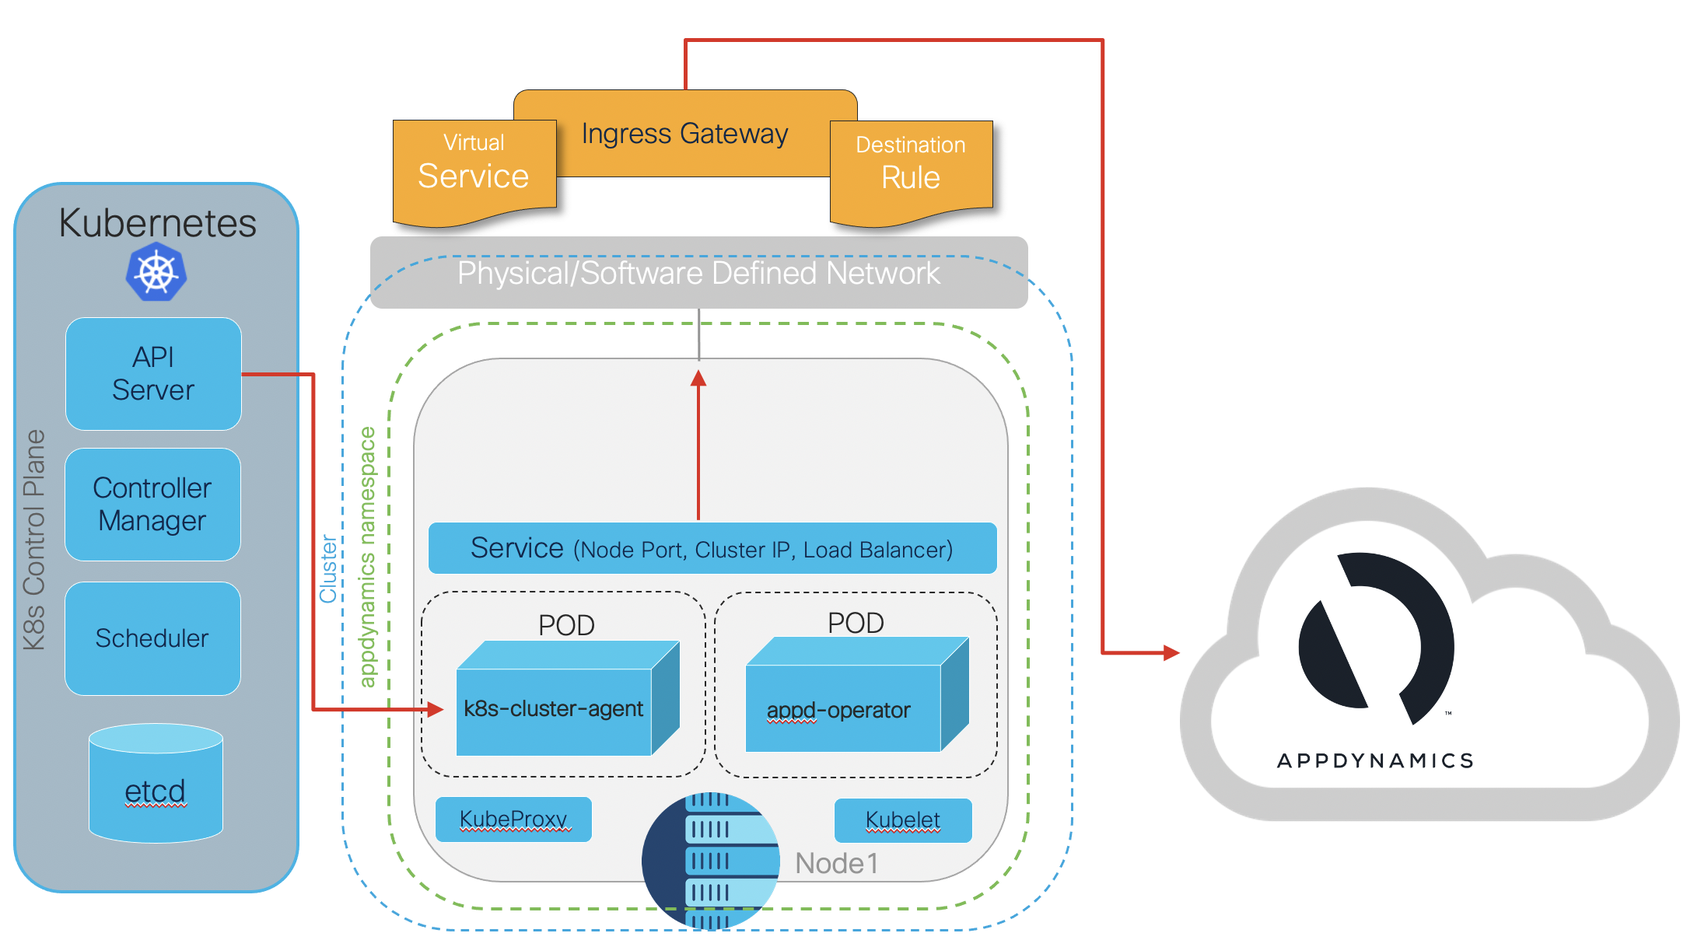
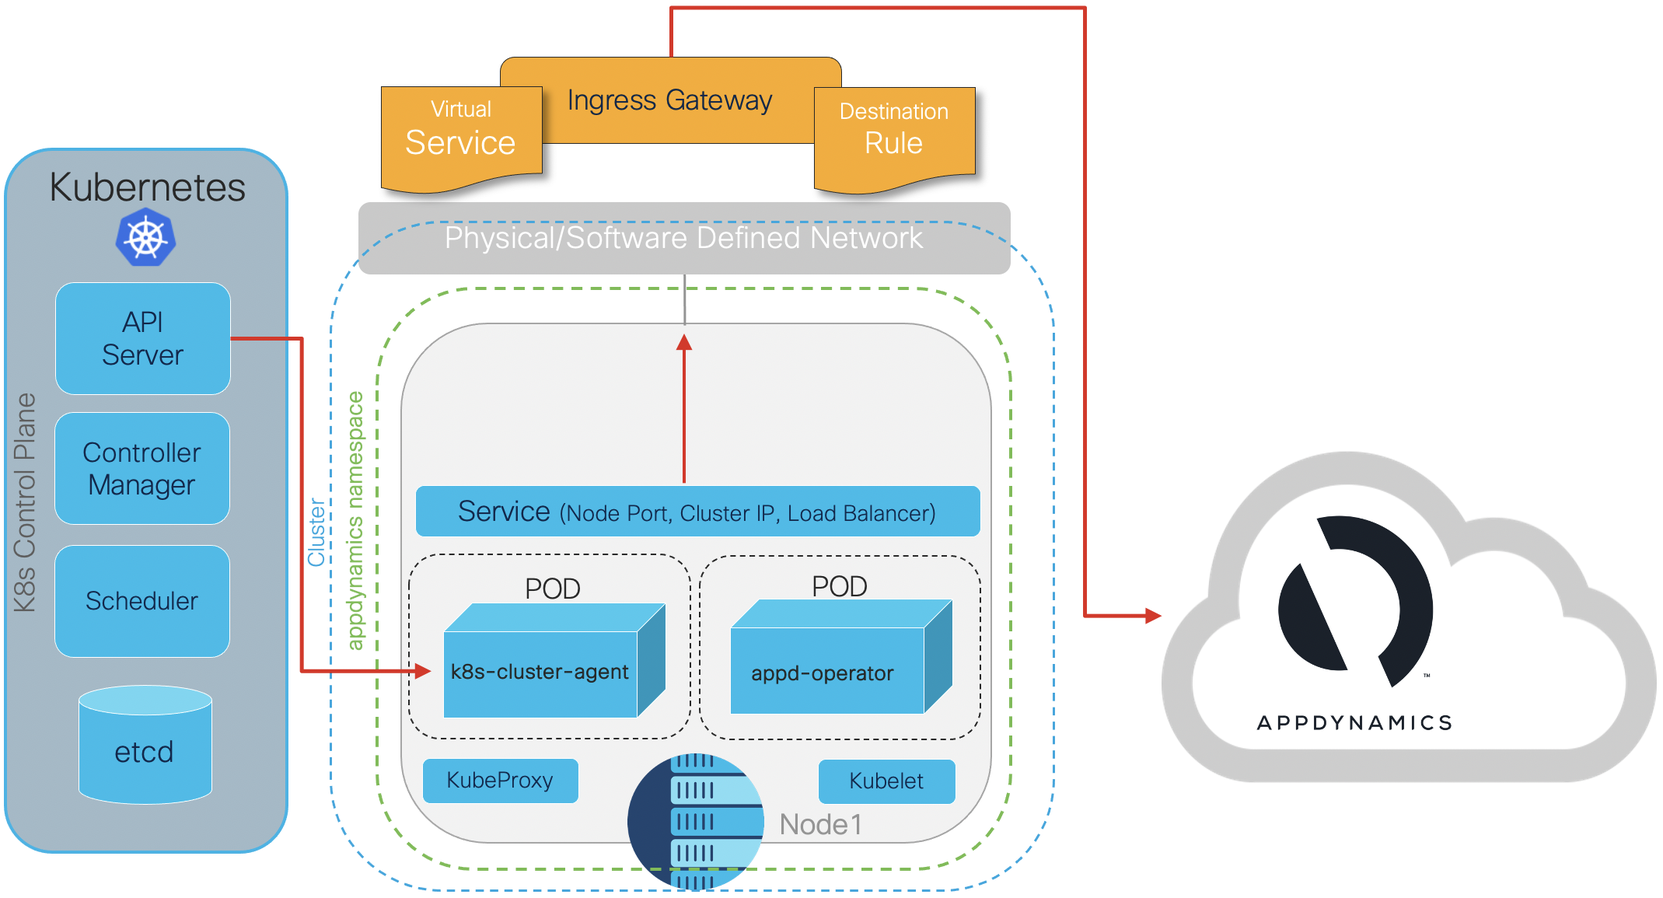
Updating diagrams and correcting minor typos

Changed region(s): [[0.0, 0.0, 0.7097, 0.9974], [0.7405, 0.4987, 1.0, 0.8727]]

diff --git a/README.md b/README.md
@@ -6,7 +6,7 @@
 
 **We use this application to demonstrate the use of Cloud Native technologies like Kubernetes/GKE, Istio, AppDynamics and ThousandEyes**. This application works on any Kubernetes (k8s) cluster, as well as Google Kubernetes Engine (GKE).
 
-This project has is based on the [original open-source microservices-demo from Google](https://github.com/GoogleCloudPlatform/microservices-demo).
+This project is based on the [original open-source microservices-demo from Google](https://github.com/GoogleCloudPlatform/microservices-demo).
 
 # Features
 
@@ -19,7 +19,7 @@ This project has is based on the [original open-source microservices-demo from G
 - **[AppDynamics](https://www.appdynamics.com/) for _App_ and _Cluster_ visibility:** The _FrontEnd_ service is versioned and
   instrumented with AppDynamics for [application performance monitoring](https://www.appdynamics.com/product/application-performance-monitoring). The k8s cluster is instrumented with AppDynamics [Cluster Agent](https://www.appdynamics.com/solutions/kubernetes-monitoring) to monitor the health of of the entire cluster, including every node and namespace down to the container level. [**GET YOUR APPDYNAMICS FREE TRIAL HERE**](https://www.appdynamics.com/free-trial/).
 - **[ThousandEyes](https://www.thousandeyes.com/) for external Network visibility and end-user experience:** _ThousandEyes_
-  [Browser Synthetics](https://www.thousandeyes.com/product/browser-synthetics) simulate users interacting with the application. ThousandEyes Cloud Agents were deployed, across the globe, to simulate these interactions and provide metrics, such as _availability_, _response time_, _latency_, _transaction times_, _errors_. [**GET YOUR THOUSANDEYES FREE TRIAL HERE**](https://www.thousandeyes.com/signup/).
+  [Browser Synthetics](https://www.thousandeyes.com/product/browser-synthetics) simulates users interacting with the application. ThousandEyes Cloud Agents were deployed, across the globe, to simulate these interactions and provide metrics, such as _availability_, _response time_, _latency_, _transaction times_, _errors_. [**GET YOUR THOUSANDEYES FREE TRIAL HERE**](https://www.thousandeyes.com/signup/).
 - **[ThousandEyes & AppDynamics Integration](https://www.appdynamics.com/product/network-monitoring) for complete application service visibility:**
   ThousandEyes alerts are natively configured to trigger alerts in AppDynamics to correlate external network and user experience problems with internal application metrics. 
 - **[Cloud Operations (Stackdriver)](https://cloud.google.com/products/operations):** Many services
@@ -56,7 +56,7 @@ microservices](./docs/img/architecture-diagram.png)](./docs/img/architecture-dia
 
 ## Kubernetes and Istio
 
-The _Online Boutique_ is initially deployed in GKE with _Istio_, which defines the _Service Mesh_ and handles service-to-service communication. _Istio_  allows to decouple traffic management from application code by attaching a sidecar proxy (called envoy) next to each container that intercepts all incoming and outgoing communications. The interaction between all these proxies in the data plane, together with a common control plane then creates the service mesh. This fundamentally helps you understand traffic flows among services and how to manage them with policies, protection and authentication. 
+The _Online Boutique_ is initially deployed in GKE with _Istio_, which defines the _Service Mesh_ and handles service-to-service communication. _Istio_  allows to decouple traffic management from application code by attaching a sidecar proxy (called envoy) next to each container that intercepts all incoming and outgoing communications. The interaction between all these proxies in the data plane, together with a common control plane, then creates the service mesh. This fundamentally helps you understand traffic flows among services and how to manage them with policies, protection and authentication. 
 
 In this project, ingress resources like an _Istio_ `Gateway` and `VirtualService` are deployed to expose the _Online Boutique_ frontend running inside a Kubernetes cluster.
 
@@ -68,21 +68,21 @@ In this project, ingress resources like an _Istio_ `Gateway` and `VirtualService
 With _Istio_ at full steam we then focus on getting visibility into how the cluster and the application are performing. We start by using _Kiali_ which comes natively integrated with _Istio_ and provides visibility at the network service layer. We then implement _AppDynamics Agents_, at the infrastructure (i.e. cluster) and application layer.
 
 ### Cluster-Agent
-This agent is deployed in its own _namespace_ and collects metrics and metadata for the entire cluster, including every node and namespace down to the container level, via the Kubernetes API. It then sends this information to the AppDynamics Controller.
+This agent is deployed in its own _namespace_ and collects metrics and metadata for the entire cluster, including every node and namespace down to the container level, via the Kubernetes API. It then sends this information to the _AppDynamics_ controller.
 
 [![Cluster Agent Diagram](./docs/img/cluster-agent-arch.png)](./docs/img/cluster-agent-arch.png)
 
-The _AppDynamics cluster-agent_ also comes with an _auto-instrument_ feature, only available for _.NET_, _JAVA_ and _Node.js_. This dynamically and automatically adds the required application agents to the targeted applications. In essence, the _cluster agent_ modifies the application deployment by adding an _init_ container that installs the required AppDynamics application agent on the application container when it automatically restarts. Both the _paymentservice_ & _currencyservice_ are _Node.js_ applications so the _AppDynamics cluster-agent_ automatically instruments them, as covered in the _Deployment_ section. However, due to some AppDynamics gRPC limitations the information of these are microservices is not being correlated at the _AppDynamics Controller level_. The goal is to solve this issue by building a gRPC middleware that allows the AppDynamics controller to correlate the information between the microservices.
+The _AppDynamics cluster-agent_ also comes with an _auto-instrument_ feature, only available for _.NET_, _JAVA_ and _Node.js_. This dynamically and automatically adds the required application agents to the targeted applications. In essence, the _cluster agent_ modifies the application deployment by adding an _init_ container that installs the required _AppDynamics_ application agent on the application container when it automatically restarts. Both the _paymentservice_ & _currencyservice_ are _Node.js_ applications so the _AppDynamics cluster-agent_ automatically instruments them, as covered in the [Deployment section](https://github.com/JPedro2/Cloud-Native-Demo#cluster-agent-1). However, due to some _AppDynamics_ gRPC limitations the information of these are microservices is not being correlated at the _AppDynamics_ controller level. The goal is to solve this issue by building a gRPC middleware that allows the AppDynamics controller to correlate the information between the microservices.
 
 [![Cluster Agent Auto-Instrument Diagram](./docs/img/cluster-agent-auto-instrumentation.png)](./docs/img/cluster-agent-auto-instrumentation.png)
 
 ### Application Performance Monitoring
-At the moment, from an application perspective, only the _FrontEnd_ microservice is meaningfully instrumented with a AppDynamics APM agent as this is the most used microservice. _Extending the AppDynamics APM agents to the remaining microservices is currently work-in-progress_.
+At the moment, from an application perspective, only the _FrontEnd_ microservice is meaningfully instrumented with a _AppDynamics_ APM agent as this is the most used microservice. _Extending the AppDynamics APM agents to the remaining microservices is currently work-in-progress_.
 
 ## ThousandEyes
-With AppDynamics providing visibility at both the infrastructure and application layer, this is then augmented with _ThousandEyes Cloud Agents_ that provide **external visibility** from global vantage points (Cloud agents across 58 countries), the internet and browser synthetics. This provides an end-to-end view into the delivery of the _Online Boutique_ app to the user, whilst getting enhanced insights on the user experience.
+With _AppDynamics_ providing visibility at both the infrastructure and application layer, this is then augmented with _ThousandEyes Cloud Agents_ that provide **external visibility** from global vantage points (Cloud agents across 58 countries), the internet and browser synthetics. This provides an end-to-end view into the delivery of the _Online Boutique_ app to the user, whilst getting enhanced insights on the user experience.
 
-The full architecture of the _Online Boutique_ application, with all the tools deployed looks as follows.
+The full architecture of the _Online Boutique_ application, with all the tools deployed, looks as follows.
 
 [![Full Arch with AppD & TE](./docs/img/full-arch-te-appd.png)](./docs/img/full-arch-te-appd.png)
 
@@ -246,25 +246,25 @@ gcloud services enable monitoring.googleapis.com \
     ```
 
 ## Service-Mesh with Istio
-As _Istio_ allows you to decouple traffic management from application code, as well as helps you understand traffic flows between services. 
-You can then, for example, define the percentage of traffic you want to send to a specific _canary_ version, or determine how to distribute traffic based on _source_/_destination_ or service version _weights_. This makes _A/B testing_, _gradual rollouts_, and _canary releases_ much easier to implement and manage.
+_Istio_ allows you to decouple traffic management from application code, as well as helps you understand traffic flows between services. 
+You can then, for example, define the percentage of traffic you want to send to a specific _canary_ version, or determine how to distribute traffic based on _source_/_destination_ or service version _weights_. This makes _A/B testing_, _gradual rollouts_ and _canary releases_ much easier to implement and manage.
 
-Additionally, _Istio_ provides useful capabilities around [failure recovery to tolerate failing nodes or avoid cascading instabilities](https://istio.io/latest/docs/concepts/traffic-management/#working-with-your-applications), as well as [fault injection](https://istio.io/latest/docs/tasks/traffic-management/fault-injection/) (delays or connectivity failures) on specific requests to test application resiliency.
+Additionally, _Istio_ provides useful capabilities around [failure recovery to tolerate failing nodes or avoid cascading instabilities](https://istio.io/latest/docs/concepts/traffic-management/#working-with-your-applications), as well as [fault injection](https://istio.io/latest/docs/tasks/traffic-management/fault-injection/) in the form of delays or connectivity failures, on specific requests to test application resiliency.
 
-If you wish to experiment with some of these _Istio_ capabilities, you can `apply` some of the _istio_ manifests in the `/istio-manifests/routing` folder, and then with _Kiali_, visualise how the traffic flow changes. 
+If you wish to experiment with some of these _Istio_ capabilities, you can `apply` some of the _Istio_ manifests in the [`/istio-manifests/routing`]((./istio-manifests)/routing) folder, and then with _Kiali_, visualise how the traffic flow changes. 
 
 These _Istio_ manifests only focus on some specific traffic management use cases:
 * Send traffic to different versions of a service based on source/destination, or service version weights. 
 * Inject time delays at specific microservices
 * Inject failures between microservices
 
-As an example you may want to inject a 5 second delay on the _productcatalogservice_, to then evaluate how the other microservices behave and handle that scenario.
+**As an example** you may want to inject a 5 second delay on the _productcatalogservice_, to then evaluate how the other microservices behave and handle that scenario.
 
 ```sh
 kubectl apply -f istio-manifests/routing/injection-delay.yaml 
 ```
 
-Once this is deployed you can confirm it by going into your _Online Boutique_ external IP address in your browser and check that when you click in one of the products on the _FrontEnd_ landing page, it takes at least 5 seconds to load. If you are using _Chrome_ you can re-do these steps whilst using the _inspect_ tool (`right-click > inspect > Network`).
+Once this is deployed you can confirm it by going into your _Online Boutique_ `external IP address` in your browser and checking that when you click in one of the products on the _FrontEnd_ landing page, it takes at least 5 seconds to load. If you are using _Chrome_ you can re-do these steps whilst using the _inspect_ tool (`right-click > inspect > Network`).
 
 [![Istio Injection-Delay Browser](./docs/img/injection-delay-browser.png)](./docs/img/injection-delay-browser.png)
 
@@ -272,14 +272,14 @@ You can also visualise this using _Kiali_, as shown.
 
 [![Istio Injection-Delay Kiali](./docs/img/injection-delay-kiali.png)](./docs/img/injection-delay-kiali.png)
 
-Once you've evaluated and analysed the fault you will need to remove it so that your application goes back to normal.
+Once you've evaluated and analysed the fault, you will need to remove it so that your application goes back to normal.
 ```sh
 kubectl delete -f istio-manifests/routing/injection-delay.yaml 
 ```
 
-To deploy and explore the other _Istio_ manifests please check the [README in /istio-manifests](./istio-manifests).
+To deploy and explore the other _Istio_ manifests please check the [README in the `istio-manifests` folder](./istio-manifests).
 
-**Please note** that the _FrontEnd-v2_ microservice is deployed in the AppDynamics section below.
+**Please note** that the _FrontEnd-v2_ microservice is deployed in the [_AppDynamics_ section below](https://github.com/JPedro2/Cloud-Native-Demo#apm-agent).
 
 ## AppDynamics 
 
@@ -307,13 +307,13 @@ To deploy the cluster agent we use the _AppDynamics Operator_, located in `/AppD
     ```
 
 3.  **Deploy the Cluster Agent:**
-    Before running the _AppD cluster-agent_ manifest you need to first rename the `cluster-agent.yaml.tplt` file to `cluster-agent.yaml` and then update it with your _AppDynamics Controller_ details. Check here [for more information on how to configure the cluster-agent yaml file](https://docs.appdynamics.com/display/PRO45/Configure+the+Cluster+Agent).
+    Before running the _AppD cluster-agent_ manifest you need to first rename the `cluster-agent.yaml.tplt` file to `cluster-agent.yaml` and then update it with your _AppDynamics Controller_ details. Check here [if you want more information on how to configure the cluster-agent yaml file](https://docs.appdynamics.com/display/PRO45/Configure+the+Cluster+Agent).
     * `appName` in _line 8_ - Name of the cluster that displays in the AppDynamics Controller UI as your cluster name.
     * `controllerUrl` in _line 9_ - Full AppDynamics Controller URL.
     * `account` in _line 10_ - AppDynamics account name.
     * `defaultAppName` in _line 28_ - Application name used by the agent to report to the Controller.
     
-    In this particular demo we are using the _AppD cluster-agent_ ability to [auto-instrument applications](https://docs.appdynamics.com/display/PRO21/Enable+Auto-Instrumentation+of+Supported+Applications). Since this feature only supports applications in _.NET_, _JAVA_ and _Node.js_, this only applies to the _paymentservice_ & _currencyservice_ microservices. This feature is implemented in your `cluster-agent.yaml` manifest from line 25 onwards. You can comment or delete those lines if you don't want the _auto-instrument_ feature turned on.
+    In this particular demo we are using the _AppD cluster-agent_ ability to [auto-instrument applications](https://docs.appdynamics.com/display/PRO21/Enable+Auto-Instrumentation+of+Supported+Applications). Since this feature only supports applications written in _.NET_, _JAVA_ and _Node.js_, this only applies to the _paymentservice_ & _currencyservice_ microservices. This feature is implemented in your `cluster-agent.yaml` manifest from line 25 onwards. You can comment or delete those lines if you don't want the _auto-instrument_ feature turned on.
 
     ```sh
     kubectl create -f AppD-Cluster-Agent-20.10/cluster-agent.yaml
@@ -335,9 +335,9 @@ To deploy the cluster agent we use the _AppDynamics Operator_, located in `/AppD
 
 ### APM Agent
 
-The only microservice manually instrumented with _AppDynamics_ APM agent is the _FrontEnd_ microservice, written in `Golang`. _AppDynamics_ does not have an APM Agent per se for `GO`, instead we use the [AppDynamics GO SDK](https://docs.appdynamics.com/display/PRO45/Go+SDK), which in itself uses the `C++` SDK in the background. For more deep and detailed information on how the _AppDynamics_ `GO` SDK is implemented in-line with the _FrontEnd_ code, you can check the the [README in src/frontend-v2-appD](./src/frontend-v2-appD).
+The only microservice manually instrumented with _AppDynamics_ APM agent is the _FrontEnd_ microservice, written in `Golang`. _AppDynamics_ does not have an APM Agent, per se, for `GO`. Instead, we use the [AppDynamics GO SDK](https://docs.appdynamics.com/display/PRO45/Go+SDK), which in itself uses the `C++` SDK in the background. **For more deep and detailed information on how the _AppDynamics_ `GO` SDK is implemented in-line with the _FrontEnd_ code, you can check the the [README in src/frontend-v2-appD](./src/frontend-v2-appD).**
 
-The goal is to deploy a _frontEnd_ version of the microservice that is instrumented with _AppDynamics_ `GO` agent and not replace the existing non-instrumented one. For that we will deploy another _FrontEnd_ `v2` microservice, which is then added to the _Istio_ service mesh that allows us to perform some interesting _traffic management_ routines, like send traffic to either `v1` or `v2` based on version weights.
+The goal is to deploy a _frontEnd_ version of the microservice that is instrumented with the _AppDynamics_ `GO` agent and not replace the existing non-instrumented one. For that we will deploy another _FrontEnd_ `v2` microservice, which is then added to the _Istio_ service mesh and allows us to perform some interesting _traffic management_ routines, like send traffic to either `v1` or `v2` based on version weights.
 
 1. **Add AppDynamics Controller Settings to _frontEnd_ `v2` manifest:**
    Start by renaming the `frontend-v2.yaml.tplt` file to `frontend-v2.yaml`, located in the `/kubernetes-manifests` folder.
@@ -374,16 +374,16 @@ The goal is to deploy a _frontEnd_ version of the microservice that is instrumen
 ## ThousandEyes
 
 ### Cloud Agent - HTTP Server Tests
-In this project, at the moment, ONLY the [_ThousandEyes Cloud Agents_](https://www.thousandeyes.com/product/cloud-agents) are used. These provide an _External Vantage Point_ as they are globally distributed agents installed and managed by ThousandEyes in 190+ cities in 58 countries and immediately available.
+Currently in this project, ONLY [_ThousandEyes Cloud Agents_](https://www.thousandeyes.com/product/cloud-agents) are used. These provide an _External Vantage Point_ as they are globally distributed agents installed and managed by ThousandEyes in 190+ cities in 58 countries and immediately available.
 
-Below is an example of how you can quickly create an `HTTP Server` test against the _Online Boutique_ frontEnd. This test can be performed as often as every minute and from several locations around the world. It provides you with insights on _Availability_, _Response Time_, _Throughput_ and you can even do a _Path Visualization_ to workout which routes is your application given out of GCP **OR**, most importantly, check if there is an issue in the network path if the application performance starts degrading. 
+Below is an example of how you can quickly create an `HTTP Server` test against the _Online Boutique_ frontEnd. This test can be performed as often as every minute and from several locations around the world. It provides you with insights on _Availability_, _Response Time_, _Throughput_ and you can even do a _Path Visualization_ to workout which routes is your application given out of GCP **OR**, most importantly, check if there is an issue in the network path, when the application performance starts degrading. 
 
 [![TE HTTP Server Test](./docs/img/TE-HTTP-Server-Test.gif)](./docs/img/TE-HTTP-Server-Test.gif)
 
 ### Cloud Agent - HTTP Transaction Tests
-Something far more exotic than `HTTP Server` tests are the `HTTP Transaction` tests that provide application experience insights with _Web Synthetics_. These types of tests measure entire multi-page workflows, with credential handling, simulating a complete user journey making sure those journeys complete sucessfully while providing an insight into the user experience. This allows for multi-layer correlation as you can now have transaction scripting tests with further information around _HTTP_, _Path Viz_, _BGP_ and _Internet Outages_.
+Something far more exotic than `HTTP Server` tests are the `HTTP Transaction` tests that provide application experience insights with _Web Synthetics_. These types of tests measure entire multi-page workflows, with credential handling, simulating a complete user journey making sure those journeys complete successfully while providing an insight into the user experience. This allows for multi-layer correlation as you can now have transaction scripting tests with further information around _HTTP_, _Path Viz_, _BGP_ and _Internet Outages_.
 
-To _write_ and _test_ transaction scripts _ThousandEyes_ provides a `ThousandEyes Recorder` application, that records your user journey through the web application and builds the `Transaction Script` for you automatically - **no code expertise required**. All you have to then do is export that `Transaction Script` to your _ThousandEyes_ transaction test and run it, as before, as often as every minute and from several locations around the world.
+To _write_ and _test_ transaction scripts _ThousandEyes_ provides a `ThousandEyes Recorder` application, that records your user journey through the application and builds the `Transaction Script` for you automatically - **no code expertise required**. All you have to do then is export that `Transaction Script` to your _ThousandEyes_ transaction test and run it - as before, as often as every minute and from several locations around the world.
 
 **To fully utilise this feature I highly recommend that you watch [this short video tutorial](https://docs.thousandeyes.com/product-documentation/tests/getting-started-with-transactions)**. 
 
@@ -394,11 +394,11 @@ If you wish to test this out without building your own transaction test scripts,
 ## ThousandEyes and AppDynamics Integration Integration
 
 ### Native Alerts
-_ThousandEyes_ natively supports sending alert notifications directly to _AppDynamics_. This allows you to correlate trigger events with clear events, and to create policies in _AppDynamics_ based on specific properties like: _alertState_, _alertType_ (HTTP, Network, Voice, etc) and _testName_. In _AppDynamics_, _ThousandEyes_ alerts show up as custom events of type _ThousandEyesAlert_ and allow you to open the _ThousandEyes_ app at the _Views_ screen for the alert start time to have further visibility into the issue.
+_ThousandEyes_ natively supports sending alert notifications directly to _AppDynamics_. This allows you to correlate trigger events with clear events, and to create policies in _AppDynamics_ based on specific properties like: _alertState_, _alertType_ (HTTP, Network, Voice, etc) and _testName_. In _AppDynamics_, _ThousandEyes_ alerts show up as custom events of type `ThousandEyesAlert` and allow you to open the _ThousandEyes_ app at the _Views_ screen for the alert start time to have further visibility into the issue.
 
 [![TE AppD Integration Alerts](./docs/img/TE-AppD-Integration-Alerts.gif)](./docs/img/TE-AppD-Integration-Alerts.gif)
 
-You can easily set up the native alerts integration by performing the steps in the official [ThousandEyes Documentation](https://docs.thousandeyes.com/product-documentation/alerts/integrations/appdynamics-integration).
+You can quickly and easily set-up the native alerts integration by following the steps in the official [ThousandEyes Documentation](https://docs.thousandeyes.com/product-documentation/alerts/integrations/appdynamics-integration).
 
 ### Custom Monitor [Work In Progress]
 
